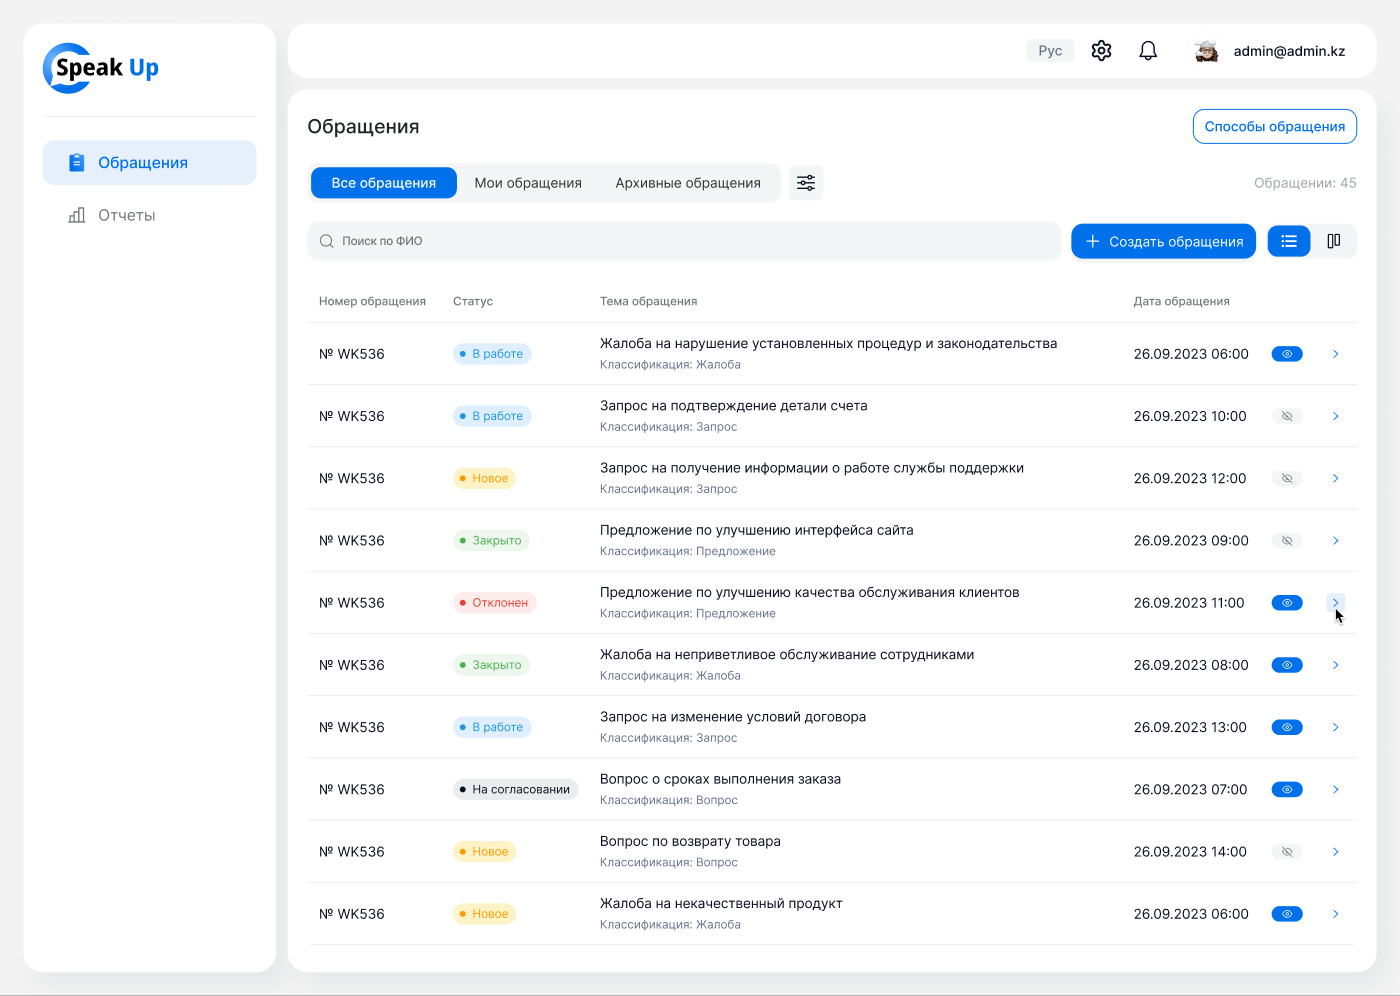
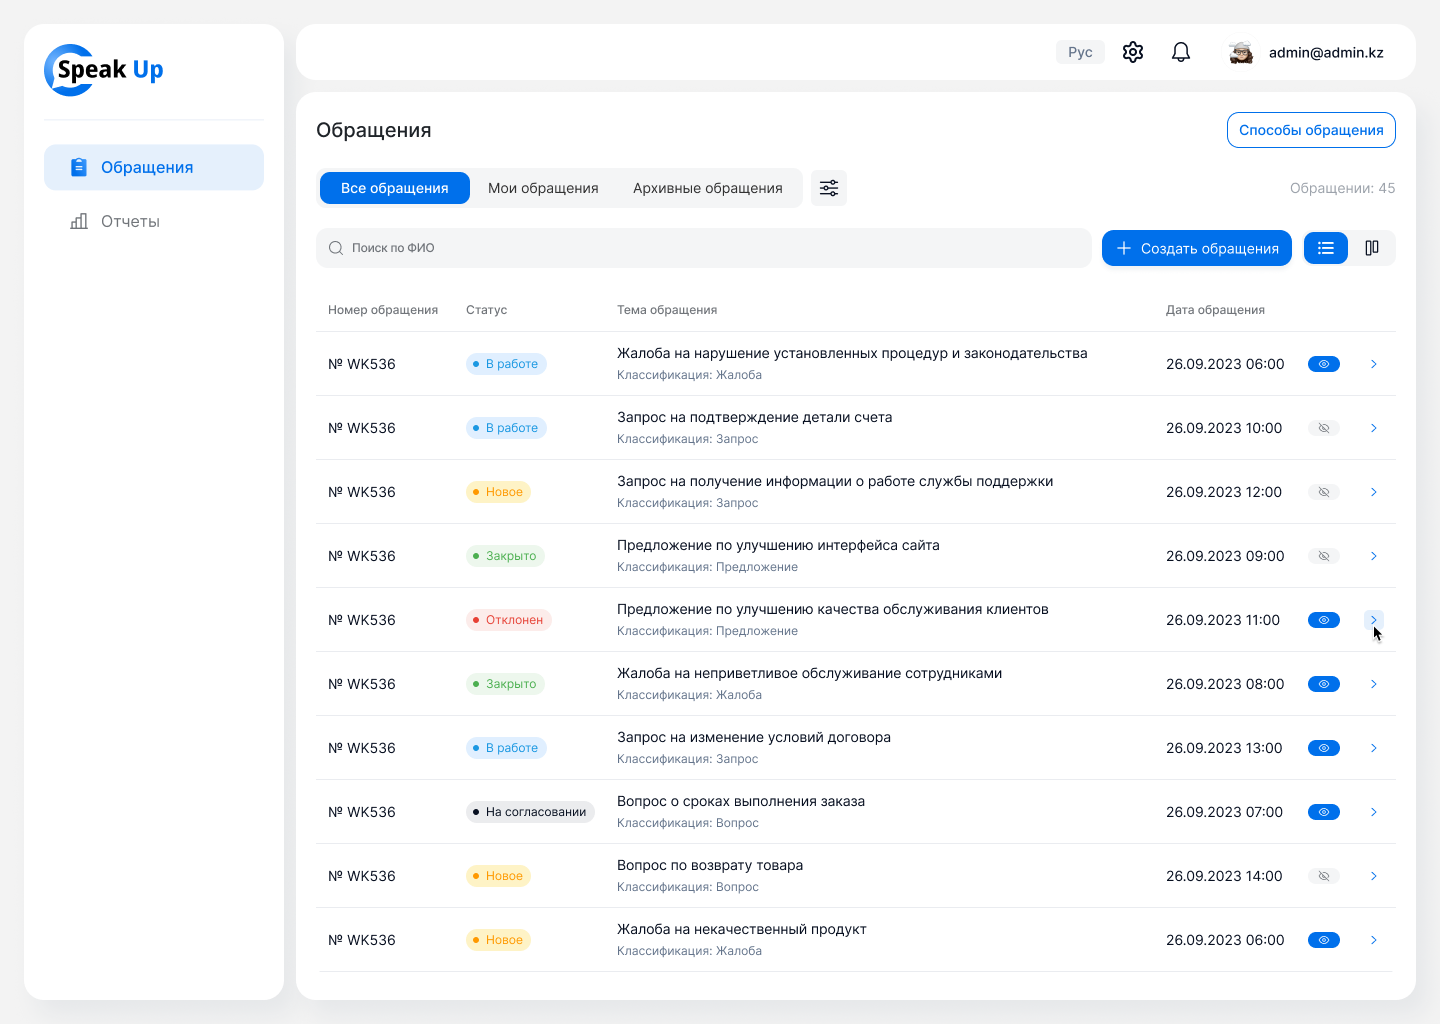
Refresh Speak Up screens from Figma (crisp); cache-bust all gallery images (?v=hd2)

diff --git a/main.js b/main.js
@@ -448,7 +448,7 @@ if (list) {
         ${(MEANING[lang]||MEANING.en)[raw.id] ? `<p class="proj-meaning">${(MEANING[lang]||MEANING.en)[raw.id]}</p>` : ''}
         <p class="subtitle">${p.subtitle}</p>
         <div class="benefits">${p.benefits.map(b => `<span>${b}</span>`).join('')}</div>
-        <div class="gallery-wrap"><div class="gallery preview">${(PREVIEW[raw.id] || ['shots/'+raw.id+'.png']).map(src => `<div class="pshot"><img src="${src}" alt="${raw.name}" loading="lazy" draggable="false" /></div>`).join('')}</div></div>`;
+        <div class="gallery-wrap"><div class="gallery preview">${(PREVIEW[raw.id] || ['shots/'+raw.id+'.png']).map(src => `<div class="pshot"><img src="${src}?v=hd2" alt="${raw.name}" loading="lazy" draggable="false" /></div>`).join('')}</div></div>`;
       list.appendChild(el);
       if (animate) io.observe(el);
       const g = el.querySelector('.gallery');
@@ -485,7 +485,7 @@ if (csEl) {
         </div>
       </div>
       ${(function(){var x=(PSR[lang]||PSR.en)[raw.id];return x?`<div class="psr"><div class="psr-card"><h3>${t('cs.problems')}</h3><p>${x.problem}</p></div><div class="psr-card"><h3>${t('cs.solution')}</h3><p>${x.solution}</p></div><div class="psr-card"><h3>${t('cs.results')}</h3><p>${x.result}</p></div></div>`:'';})()}
-      ${(SCREENS[raw.id]||[]).length ? `<div class="cs-gallery-label"><span>${t('cs.gallery')}</span></div>` + (SCREENS[raw.id]).map(src => `<div class="cs-shot"><img src="${src}" alt="${raw.name}" loading="lazy" /></div>`).join('') : ''}
+      ${(SCREENS[raw.id]||[]).length ? `<div class="cs-gallery-label"><span>${t('cs.gallery')}</span></div>` + (SCREENS[raw.id]).map(src => `<div class="cs-shot"><img src="${src}?v=hd2" alt="${raw.name}" loading="lazy" /></div>`).join('') : ''}
       <div class="cs-next"><span>${t('cs.next')}</span><a href="casestudy.html?id=${nextRaw.id}">${nextRaw.name} →</a></div>`;
     const g = csEl.querySelector('.gallery');
     if (g) { enableDragScroll(g); attachDragBadge(csEl.querySelector('.gallery-wrap'), g); }
